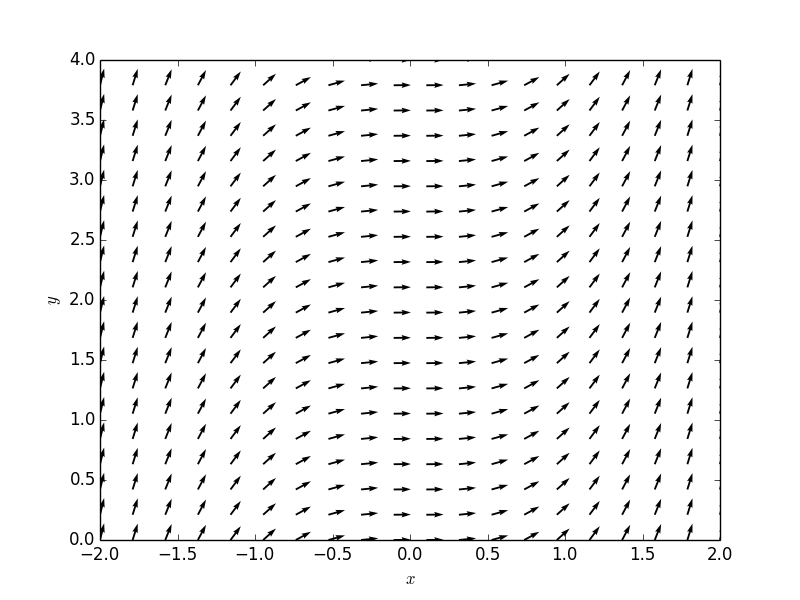
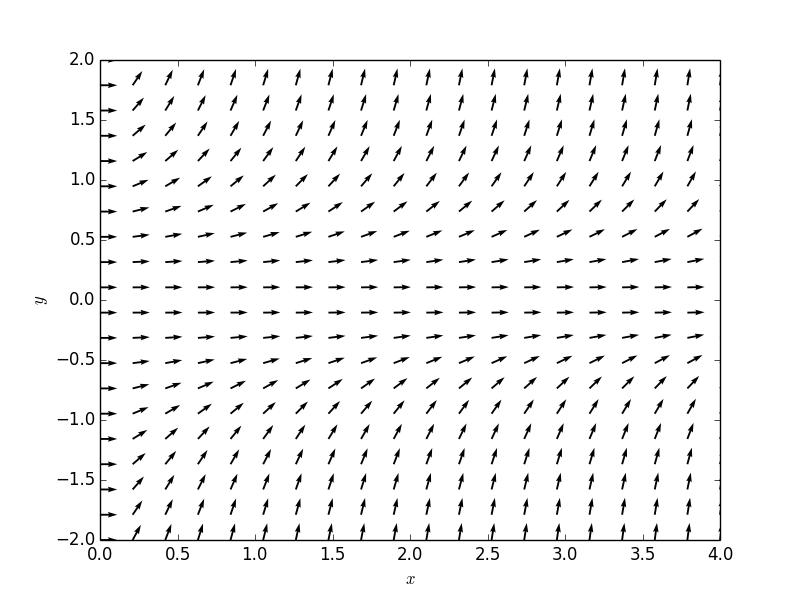
Fixed vecfield

diff --git a/vecfield.py b/vecfield.py
@@ -8,17 +8,17 @@ fig = plt.figure(num=1)
 ax=fig.add_subplot(111)
 
 #Vector field
-X,Y = np.meshgrid( np.linspace(-2,2,20),np.linspace(0,4,20) )
+X,Y = np.meshgrid( np.linspace(0,4,20),np.linspace(-2,2,20) )
 U = 1
-V = np.sqrt(U)*(X**2)
+V = np.sqrt(X)*(Y**2)
 #Normalize arrows
 N = np.sqrt(U**2+V**2)  
 U2, V2 = U/N, V/N
 ax.quiver( X,Y,U2, V2)
 
 
-plt.xlim([-2,2])
-plt.ylim([0,4])
+plt.ylim([-2,2])
+plt.xlim([0,4])
 plt.xlabel(r"$x$")
 plt.ylabel(r"$y$")
 plt.show()
